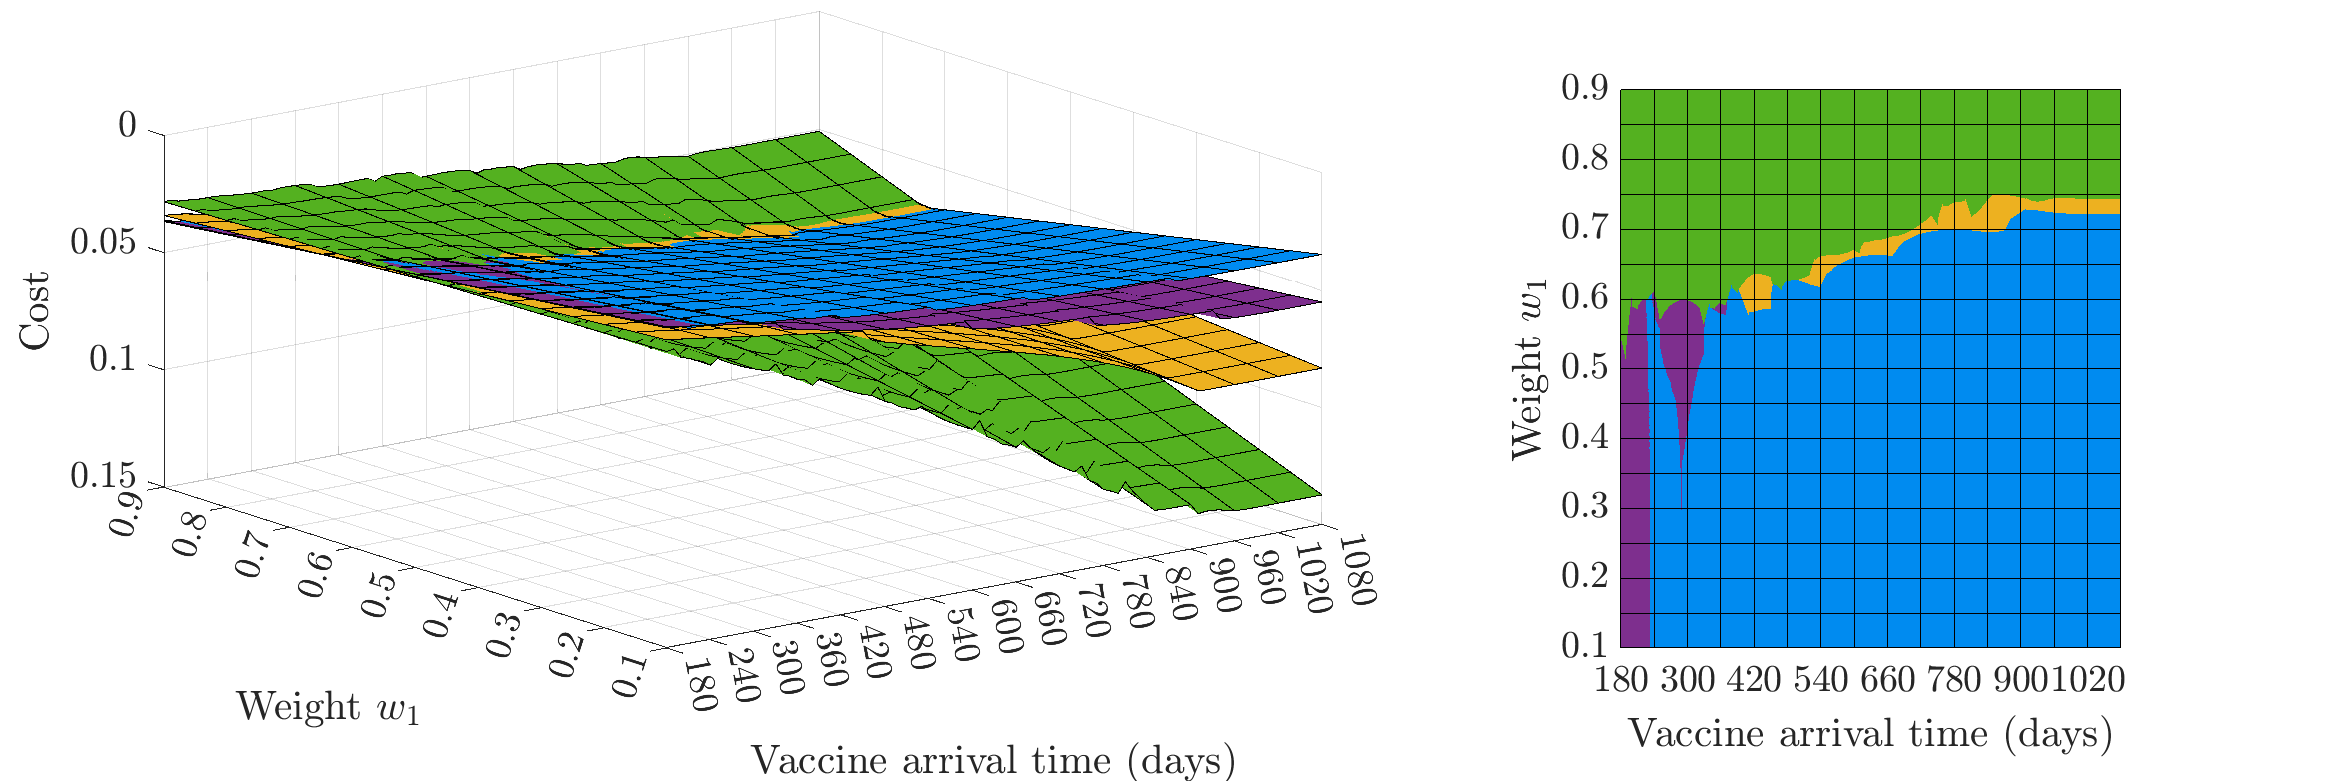
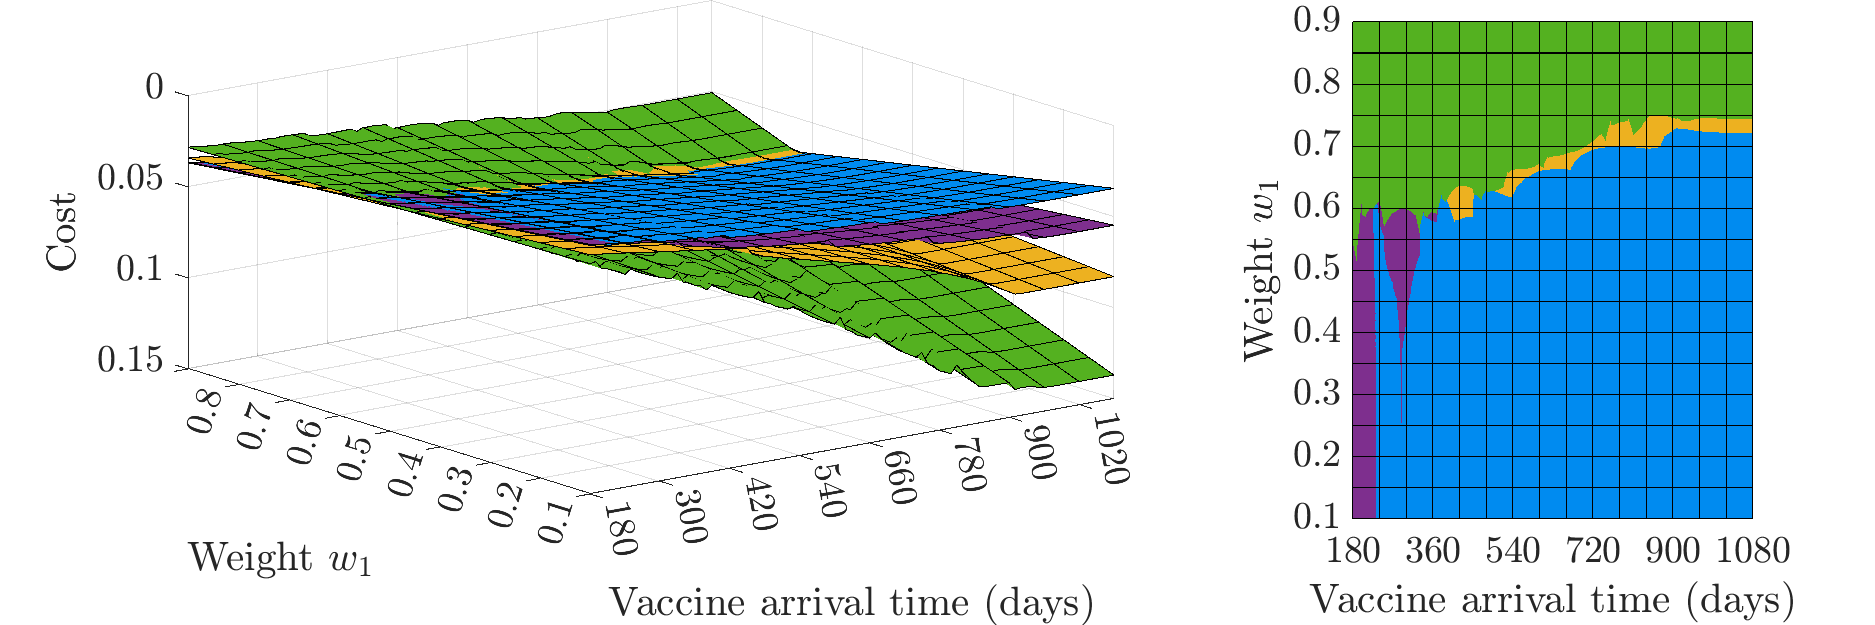
finalised figures for report

diff --git a/vaccine_code/Costs_varyingw.m b/vaccine_code/Costs_varyingw.m
@@ -17,7 +17,7 @@ vstarts = [2*max(vstart_times), 360];
 
 % Define time to run model for
 t_init = 30;    % preliminary run
-maxtime = 500;  % main simulation
+maxtime = 1000;  % main simulation
 
 % define strategy numbers and switching thresholds
 thresholds = [50 150 100 700; 50 150 100 200; 150 350 500 650; 275 350 425 500];
@@ -27,7 +27,7 @@ strategies = [1:length(thresholds)];
 para = para0;
 para.init = 1;
 para.maxtime = maxtime;
-para.Hmax = 1500;        % modify hospital capacity
+para.Hmax = 1075;        % modify hospital capacity
 
 % define functional weights
 weights = [0.6:0.01:1];  % varying w1, w2 = 1 - w1
@@ -70,7 +70,7 @@ toc
 % Plotting
 cols = [0.9290 0.6940 0.1250; 0.3290, 0.6940, 0.1250; 0.4940 0.1840 0.5560; 0 0.5470 0.9410];
 
-figure('Position',[600 600 750 250])
+figure('Position',[600 600 600 200])
 hold on
 for strat = strategies
     plot(weights,rank(strat,:),'-o','Color',cols(strat,:),'MarkerSize',6,'MarkerFaceColor',cols(strat,:))
@@ -80,9 +80,9 @@ set(gca, 'YDir','reverse')
 axis([min(weights) max(weights) 0.5 4.5])
 xticks([0.6:0.1:1])
 xlabel('$w_1 \; (w_2 = 1 - w_1)$')
-ylabel('Strategy Ranking')
+ylabel('Ranking')
 if para.Hmax < 1400
-    legend({'S1 (Cautious Easing)','S2 (Suppression)','S3 (Slow Control)','S4 (Rapid Control)'},'Interpreter','Latex','Location','east','FontSize',16)
+    legend({'S1 (Cautious Easing)','S2 (Suppression)','S3 (Slow Control)','S4 (Rapid Control)'},'Interpreter','Latex','Location','east','FontSize',14)
 end
 %title(strcat('$H_c$ = ',{' '},num2str(para.Hmax),', ',' maxtime =  ',{' '},num2str(maxtime)))
 grid on

diff --git a/vaccine_code/testing_vdists.m b/vaccine_code/testing_vdists.m
@@ -81,14 +81,15 @@ toc
 set(0,'defaultaxesfontsize',18)
 
 f = figure(1);
-f.Position = [100 400 1500 500];
+f.Position = [100 400 1200 400];
 
 cols = [0.9290 0.6940 0.1250; 0.3290, 0.6940, 0.1250; 0.4940 0.1840 0.5560; 0 0.5470 0.9410];
 
 subplot(1,3,[1 2])
 ax = gca;
-ax.Position(2) = ax.Position(2) + 0.06;
-ax.Position(1) = ax.Position(1) - 0.06;
+ax.Position(2) = ax.Position(2) + 0.1;
+ax.Position(1) = ax.Position(1) - 0.03;
+ax.Position(4) = ax.Position(4) - 0.025;
 
 for strat = strategies
     fstrat = fs(:,:,strat);
@@ -122,9 +123,9 @@ for strat = strategies
     end
 end
 yticks([1:10:nw])
-xticks([1:6:nv])
-yticklabels(weights(1:10:end))
-xticklabels(vstart_times(1:6:end))
+xticks([1:12:nv])
+yticklabels(weights(1:10:end-5))
+xticklabels(vstart_times(1:12:end))
 ylim([1 nw])
 xlim([1 nv])
 label_y = ylabel('Weight $w_1$');
@@ -138,9 +139,9 @@ zlabel('Cost')
 
 subplot(1,3,3)
 ax = gca;
-%ax.Position(1) = ax.Position(1) + 0.03;
+ax.Position(1) = ax.Position(1) + 0.03;
 ax.Position(2) = ax.Position(2) + 0.06;
-ax.Position(4) = ax.Position(4) - 0.1;
+ax.Position(4) = ax.Position(4) - 0.02;
 
 for strat = strategies
     fstrat = fs(:,:,strat);
@@ -177,10 +178,10 @@ end
 view([0 270])
 f.CurrentAxes.YDir = 'Reverse';
 yticks([1:10:nw])
-xticks([1:12:nv])
+xticks([1:18:nv])
 xtickangle(0)
 yticklabels(weights(1:10:end))
-xticklabels(vstart_times(1:12:end))
+xticklabels(vstart_times(1:18:end))
 ylim([1 nw])
 xlim([1 nv])
 ylabel('Weight $w_1$')

diff --git a/vaccine_code/Simulations.m b/vaccine_code/Simulations.m
@@ -14,7 +14,7 @@ para0 = load('./mats/Parameters.mat');
 % vaccination start times
 vstart_times = [180:60:1080];
 vstarts = [2*max(vstart_times), 360];
-vstarts = 2160;
+vstarts = 360;
 % Define time to run model for
 t_init = 30;    % preliminary run
 maxtime = 800;  % main simulation
@@ -141,7 +141,7 @@ saveas(gcf,strcat('./vacc_images/','vacc2_',num2str(para.vstart),'.png'))
 
 % Plotting cumulative vaccinations
 f = figure(2);
-f.Position = [1250 400 600 500];
+f.Position = [1250 400 600 400];
 plot(Classes.t, Classes.V(:,1)./1000, 'LineWidth', 2.5, 'DisplayName', '0-19')
 hold on
 plot(Classes.t, Classes.V(:,2)./1000, 'LineWidth', 2.5, 'DisplayName', '20-64')
